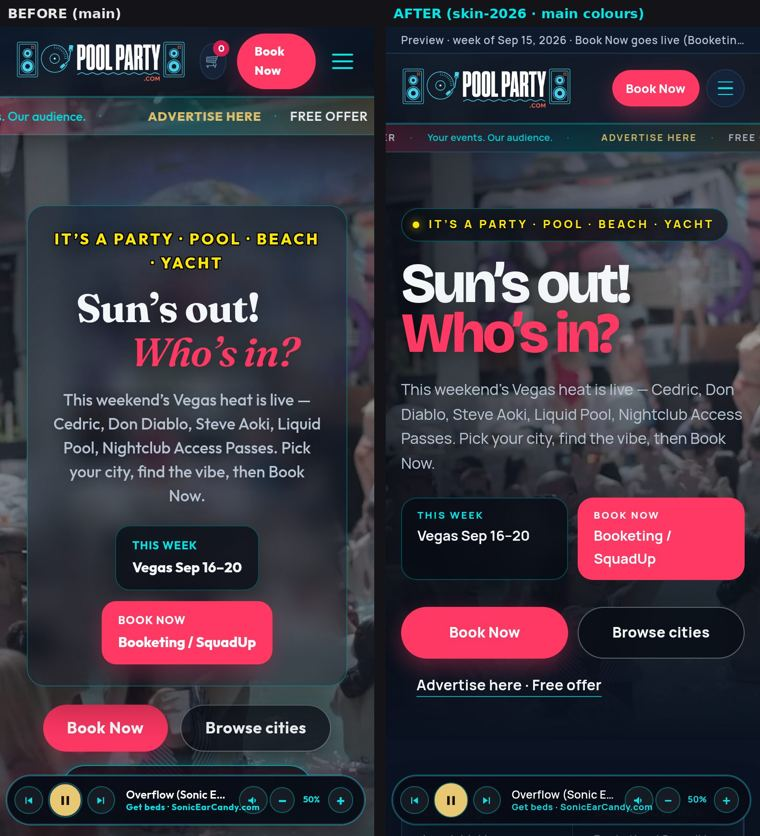
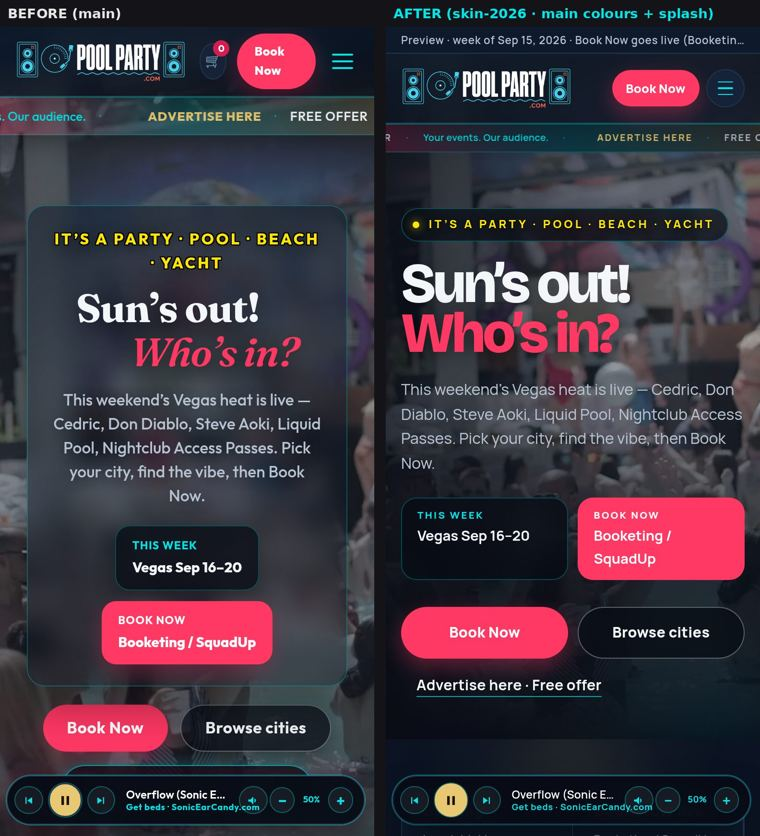
skin-2026: restore main's colour splash (cyan/coral/gold radial wash + orbs on fixed pseudo-elements, page-hero tint, glass footer); css v=3; no pool-water wash

diff --git a/assets/css/skin-2026.css b/assets/css/skin-2026.css
@@ -68,11 +68,21 @@ body{
   -webkit-font-smoothing:antialiased;-moz-osx-font-smoothing:grayscale;
   overflow-x:hidden;min-height:100vh;
 }
-body::before{ /* one soft sunset aurora at the very top — static, cheap */
-  content:"";position:absolute;left:0;right:0;top:0;height:900px;z-index:-1;pointer-events:none;
+/* Colour splash — same layers/values as main (pp-tokens.css body + body::before).
+   main painted the ellipses as body background-attachment:fixed; here both sets live on
+   fixed pseudo-elements (GPU-composited, no repaint on scroll, works on iOS). Pool-water wash NOT used. */
+body::before,body::after{content:"";position:fixed;inset:0;z-index:-1;pointer-events:none}
+body::before{ /* main body radial wash: cyan TL · coral TR · gold bottom */
   background:
-    radial-gradient(80% 45% at 0% 0%,rgba(0,229,232,.16),transparent 55%),
-    radial-gradient(70% 40% at 100% 5%,rgba(212,30,82,.12),transparent 50%);
+    radial-gradient(ellipse 80% 45% at 0% 0%,rgba(0,229,232,.16),transparent 55%),
+    radial-gradient(ellipse 70% 40% at 100% 5%,rgba(212,30,82,.12),transparent 50%),
+    radial-gradient(ellipse 50% 35% at 50% 100%,rgba(232,200,114,.08),transparent 55%);
+}
+body::after{ /* main body::before colour orbs */
+  background:
+    radial-gradient(circle 280px at 12% 42%,rgba(0,229,232,.09),transparent 70%),
+    radial-gradient(circle 320px at 88% 58%,rgba(212,30,82,.07),transparent 70%),
+    radial-gradient(circle 240px at 48% 88%,rgba(232,200,114,.06),transparent 70%);
 }
 a{color:inherit;text-decoration:none}
 img{max-width:100%;display:block;height:auto}
@@ -216,16 +226,17 @@ section{padding:4.5rem 0}
   position:relative;min-height:92vh;min-height:92svh;display:flex;align-items:flex-end;
   padding:9rem 0 3.5rem;overflow:hidden;isolation:isolate;
 }
-.hero-bg{position:absolute;inset:0;z-index:0;background:var(--s-bg)}
+.hero-bg{position:absolute;inset:0;z-index:0;background:var(--s-bg-deep);-webkit-mask-image:linear-gradient(180deg,#000 72%,transparent 100%);mask-image:linear-gradient(180deg,#000 72%,transparent 100%)}
 .hero-bg .hero-video,.hero-bg .hero-poster-fallback{position:absolute;inset:0;width:100%;height:100%;object-fit:cover;object-position:center 40%}
 .hero-bg .hero-video{z-index:1}
 @media (prefers-reduced-motion:reduce){.hero-bg .hero-video{display:none}}
 .hero-overlay{
   position:absolute;inset:0;z-index:1;pointer-events:none;
   background:
-    linear-gradient(0deg,var(--s-bg) 0%,rgba(7,11,20,.84) 22%,rgba(7,11,20,.3) 55%,rgba(7,11,20,.55) 100%),
+    linear-gradient(0deg,rgba(7,11,20,.6) 0%,rgba(7,11,20,.8) 22%,rgba(7,11,20,.3) 55%,rgba(7,11,20,.55) 100%),
     linear-gradient(90deg,rgba(7,11,20,.72) 0%,rgba(7,11,20,.12) 60%,transparent 100%),
-    radial-gradient(55% 45% at 85% 100%,rgba(0,229,232,.14),transparent 70%);
+    radial-gradient(55% 45% at 85% 100%,rgba(0,229,232,.14),transparent 70%),
+    radial-gradient(45% 40% at 0% 100%,rgba(212,30,82,.10),transparent 70%);
 }
 .hero-center{position:relative;z-index:2;width:min(1240px,calc(100% - 2.5rem));margin:0 auto;display:grid;gap:1.75rem;text-align:left}
 .hero-panel{max-width:46rem;background:none;border:0;padding:0;box-shadow:none}
@@ -274,18 +285,20 @@ body.has-ad-stream .hero{padding-top:calc(var(--ad-stream-offset,7rem) + 2rem)}
 .page-hero{
   position:relative;overflow:hidden;isolation:isolate;
   padding:calc(var(--banner-h) + var(--nav-h) + 4rem) 0 3.25rem;
-  background:var(--s-bg);
+  background:transparent;
 }
 .page-hero::before{
   content:"";position:absolute;inset:0;z-index:-2;
   background:url("../site/vibe-garden-dusk.jpg") center 35%/cover no-repeat;opacity:.38;
+  -webkit-mask-image:linear-gradient(180deg,#000 45%,transparent 100%);mask-image:linear-gradient(180deg,#000 45%,transparent 100%);
 }
 .page-hero::after{
   content:"";position:absolute;inset:0;z-index:-1;
   background:
-    linear-gradient(0deg,var(--s-bg) 0%,rgba(7,11,20,.7) 45%,rgba(7,11,20,.55) 100%),
-    linear-gradient(90deg,rgba(7,11,20,.88) 0%,rgba(7,11,20,.3) 70%),
-    radial-gradient(50% 70% at 100% 0%,rgba(0,229,232,.14),transparent 70%);
+    linear-gradient(0deg,transparent 0%,rgba(7,11,20,.55) 45%,rgba(7,11,20,.5) 100%),
+    linear-gradient(90deg,rgba(7,11,20,.75) 0%,rgba(7,11,20,.2) 70%,transparent 100%),
+    radial-gradient(ellipse 50% 60% at 85% 20%,rgba(0,229,232,.16),transparent 60%),
+    radial-gradient(ellipse 40% 50% at 10% 80%,rgba(212,30,82,.10),transparent 55%);
 }
 .page-hero.events::before{background-image:url("../site/vibe-encore-crowd.jpg")}
 .page-hero.venues::before{background-image:url("../site/feat-encore-cabana.jpg")}
@@ -527,7 +540,7 @@ body.page-yacht{--s-bg:#001226;--s-sun-2:#D41E52;background-image:none}
 body.page-yacht .eyebrow,body.page-yacht .tag{color:#D4AF37}
 
 /* ——— Footer ——— */
-.footer{position:relative;margin-top:3rem;padding:4.5rem 0 2rem;background:var(--s-bg-2);border-top:1px solid var(--s-line);overflow:hidden}
+.footer{position:relative;margin-top:3rem;padding:4.5rem 0 2rem;background:linear-gradient(165deg,rgba(14,26,43,.72),rgba(7,11,20,.62));border-top:1px solid rgba(0,229,232,.28);box-shadow:0 -8px 28px rgba(0,0,0,.22);overflow:hidden}
 .footer::before{content:"";position:absolute;left:0;right:0;top:0;height:1px;background:var(--s-duo);opacity:.8}
 .footer-grid{display:grid;gap:2.25rem;grid-template-columns:1fr 1fr}
 .footer-grid>div:first-child{grid-column:1/-1}

diff --git a/index.html b/index.html
@@ -10,7 +10,7 @@
   <link rel="preconnect" href="https://fonts.gstatic.com" crossorigin />
   <link href="https://fonts.googleapis.com/css2?family=Bricolage+Grotesque:opsz,wght@12..96,500..800&amp;family=Manrope:wght@400..800&amp;display=swap" rel="stylesheet" />
   <link rel="stylesheet" href="assets/css/music-layer.css?v=28" />
-  <link rel="stylesheet" href="assets/css/skin-2026.css?v=2" />
+  <link rel="stylesheet" href="assets/css/skin-2026.css?v=3" />
 </head>
 <body data-data-root="data" data-asset-root="">
 <div class="proto-banner">Preview · week of Sep 15, 2026 · Book Now goes live (Booketing/SquadUp). Demo cart has no prices. <a href="https://poolparty.com/" target="_blank" rel="noopener">Live site</a></div>

diff --git a/account.html b/account.html
@@ -9,7 +9,7 @@
   <link rel="preconnect" href="https://fonts.googleapis.com" />
   <link rel="preconnect" href="https://fonts.gstatic.com" crossorigin />
   <link href="https://fonts.googleapis.com/css2?family=Bricolage+Grotesque:opsz,wght@12..96,500..800&amp;family=Manrope:wght@400..800&amp;display=swap" rel="stylesheet" />
-  <link rel="stylesheet" href="assets/css/skin-2026.css?v=2" />
+  <link rel="stylesheet" href="assets/css/skin-2026.css?v=3" />
   <link rel="stylesheet" href="assets/css/music-layer.css?v=28" />
 </head>
 <body class="page-checkout" data-data-root="data" data-asset-root="">

diff --git a/cart.html b/cart.html
@@ -9,7 +9,7 @@
   <link rel="preconnect" href="https://fonts.googleapis.com" />
   <link rel="preconnect" href="https://fonts.gstatic.com" crossorigin />
   <link href="https://fonts.googleapis.com/css2?family=Bricolage+Grotesque:opsz,wght@12..96,500..800&amp;family=Manrope:wght@400..800&amp;display=swap" rel="stylesheet" />
-  <link rel="stylesheet" href="assets/css/skin-2026.css?v=2" />
+  <link rel="stylesheet" href="assets/css/skin-2026.css?v=3" />
   <link rel="stylesheet" href="assets/css/music-layer.css?v=28" />
 </head>
 <body class="page-checkout" data-data-root="data" data-asset-root="">

diff --git a/checkout.html b/checkout.html
@@ -9,7 +9,7 @@
   <link rel="preconnect" href="https://fonts.googleapis.com" />
   <link rel="preconnect" href="https://fonts.gstatic.com" crossorigin />
   <link href="https://fonts.googleapis.com/css2?family=Bricolage+Grotesque:opsz,wght@12..96,500..800&amp;family=Manrope:wght@400..800&amp;display=swap" rel="stylesheet" />
-  <link rel="stylesheet" href="assets/css/skin-2026.css?v=2" />
+  <link rel="stylesheet" href="assets/css/skin-2026.css?v=3" />
   <link rel="stylesheet" href="assets/css/music-layer.css?v=28" />
 </head>
 <body class="page-checkout" data-data-root="data" data-asset-root="">

diff --git a/privacy.html b/privacy.html
@@ -9,7 +9,7 @@
   <link rel="preconnect" href="https://fonts.googleapis.com" />
   <link rel="preconnect" href="https://fonts.gstatic.com" crossorigin />
   <link href="https://fonts.googleapis.com/css2?family=Bricolage+Grotesque:opsz,wght@12..96,500..800&amp;family=Manrope:wght@400..800&amp;display=swap" rel="stylesheet" />
-  <link rel="stylesheet" href="assets/css/skin-2026.css?v=2" />
+  <link rel="stylesheet" href="assets/css/skin-2026.css?v=3" />
   <link rel="stylesheet" href="assets/css/music-layer.css?v=28" />
 </head>
 <body class="page-checkout" data-data-root="data" data-asset-root="">

diff --git a/terms.html b/terms.html
@@ -9,7 +9,7 @@
   <link rel="preconnect" href="https://fonts.googleapis.com" />
   <link rel="preconnect" href="https://fonts.gstatic.com" crossorigin />
   <link href="https://fonts.googleapis.com/css2?family=Bricolage+Grotesque:opsz,wght@12..96,500..800&amp;family=Manrope:wght@400..800&amp;display=swap" rel="stylesheet" />
-  <link rel="stylesheet" href="assets/css/skin-2026.css?v=2" />
+  <link rel="stylesheet" href="assets/css/skin-2026.css?v=3" />
   <link rel="stylesheet" href="assets/css/music-layer.css?v=28" />
 </head>
 <body class="page-checkout" data-data-root="data" data-asset-root="">

diff --git a/advertise.html b/advertise.html
@@ -9,7 +9,7 @@
   <link rel="preconnect" href="https://fonts.googleapis.com" />
   <link rel="preconnect" href="https://fonts.gstatic.com" crossorigin />
   <link href="https://fonts.googleapis.com/css2?family=Bricolage+Grotesque:opsz,wght@12..96,500..800&amp;family=Manrope:wght@400..800&amp;display=swap" rel="stylesheet" />
-  <link rel="stylesheet" href="assets/css/skin-2026.css?v=2" />
+  <link rel="stylesheet" href="assets/css/skin-2026.css?v=3" />
   <link rel="stylesheet" href="assets/css/music-layer.css?v=28" />
 </head>
 <body data-data-root="data" data-asset-root="">

diff --git a/blog-post.html b/blog-post.html
@@ -9,7 +9,7 @@
   <link rel="preconnect" href="https://fonts.googleapis.com" />
   <link rel="preconnect" href="https://fonts.gstatic.com" crossorigin />
   <link href="https://fonts.googleapis.com/css2?family=Bricolage+Grotesque:opsz,wght@12..96,500..800&amp;family=Manrope:wght@400..800&amp;display=swap" rel="stylesheet" />
-  <link rel="stylesheet" href="assets/css/skin-2026.css?v=2" />
+  <link rel="stylesheet" href="assets/css/skin-2026.css?v=3" />
   <link rel="stylesheet" href="assets/css/music-layer.css?v=28" />
 </head>
 <body data-data-root="data" data-asset-root="">

diff --git a/blog.html b/blog.html
@@ -9,7 +9,7 @@
   <link rel="preconnect" href="https://fonts.googleapis.com" />
   <link rel="preconnect" href="https://fonts.gstatic.com" crossorigin />
   <link href="https://fonts.googleapis.com/css2?family=Bricolage+Grotesque:opsz,wght@12..96,500..800&amp;family=Manrope:wght@400..800&amp;display=swap" rel="stylesheet" />
-  <link rel="stylesheet" href="assets/css/skin-2026.css?v=2" />
+  <link rel="stylesheet" href="assets/css/skin-2026.css?v=3" />
   <link rel="stylesheet" href="assets/css/music-layer.css?v=28" />
 </head>
 <body data-data-root="data" data-asset-root="">

diff --git a/cities.html b/cities.html
@@ -9,7 +9,7 @@
   <link rel="preconnect" href="https://fonts.googleapis.com" />
   <link rel="preconnect" href="https://fonts.gstatic.com" crossorigin />
   <link href="https://fonts.googleapis.com/css2?family=Bricolage+Grotesque:opsz,wght@12..96,500..800&amp;family=Manrope:wght@400..800&amp;display=swap" rel="stylesheet" />
-  <link rel="stylesheet" href="assets/css/skin-2026.css?v=2" />
+  <link rel="stylesheet" href="assets/css/skin-2026.css?v=3" />
   <link rel="stylesheet" href="assets/css/music-layer.css?v=28" />
 </head>
 <body data-data-root="data" data-asset-root="">

diff --git a/city.html b/city.html
@@ -9,7 +9,7 @@
   <link rel="preconnect" href="https://fonts.googleapis.com" />
   <link rel="preconnect" href="https://fonts.gstatic.com" crossorigin />
   <link href="https://fonts.googleapis.com/css2?family=Bricolage+Grotesque:opsz,wght@12..96,500..800&amp;family=Manrope:wght@400..800&amp;display=swap" rel="stylesheet" />
-  <link rel="stylesheet" href="assets/css/skin-2026.css?v=2" />
+  <link rel="stylesheet" href="assets/css/skin-2026.css?v=3" />
   <link rel="stylesheet" href="assets/css/music-layer.css?v=28" />
 </head>
 <body data-data-root="data" data-asset-root="">
